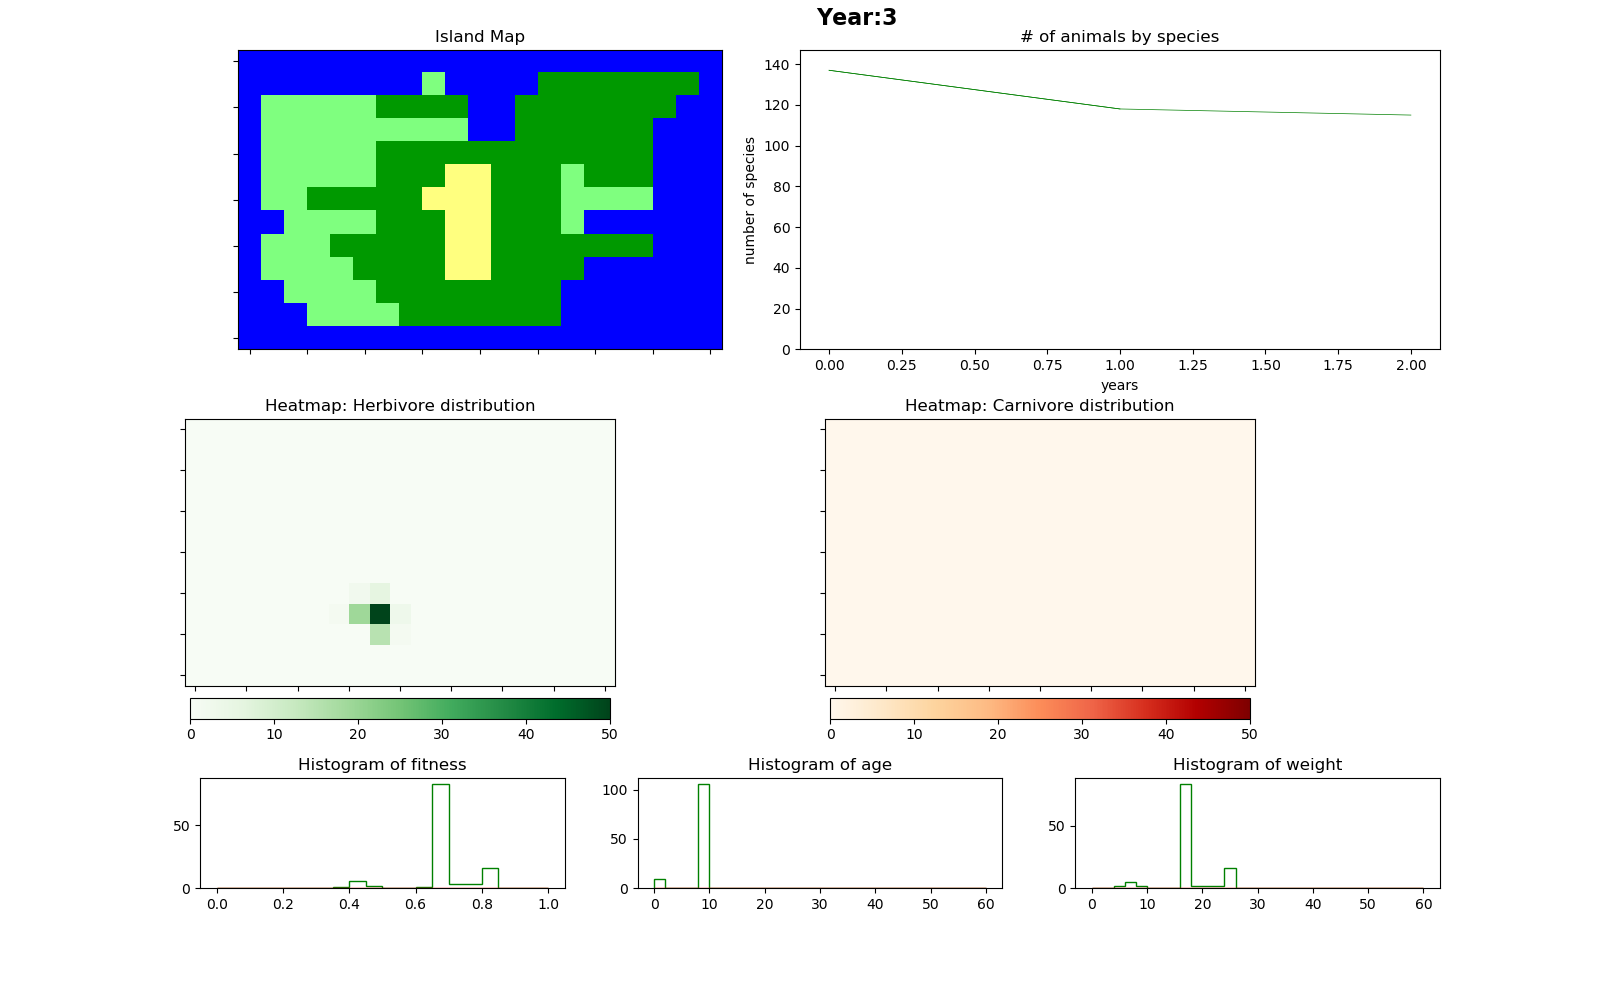
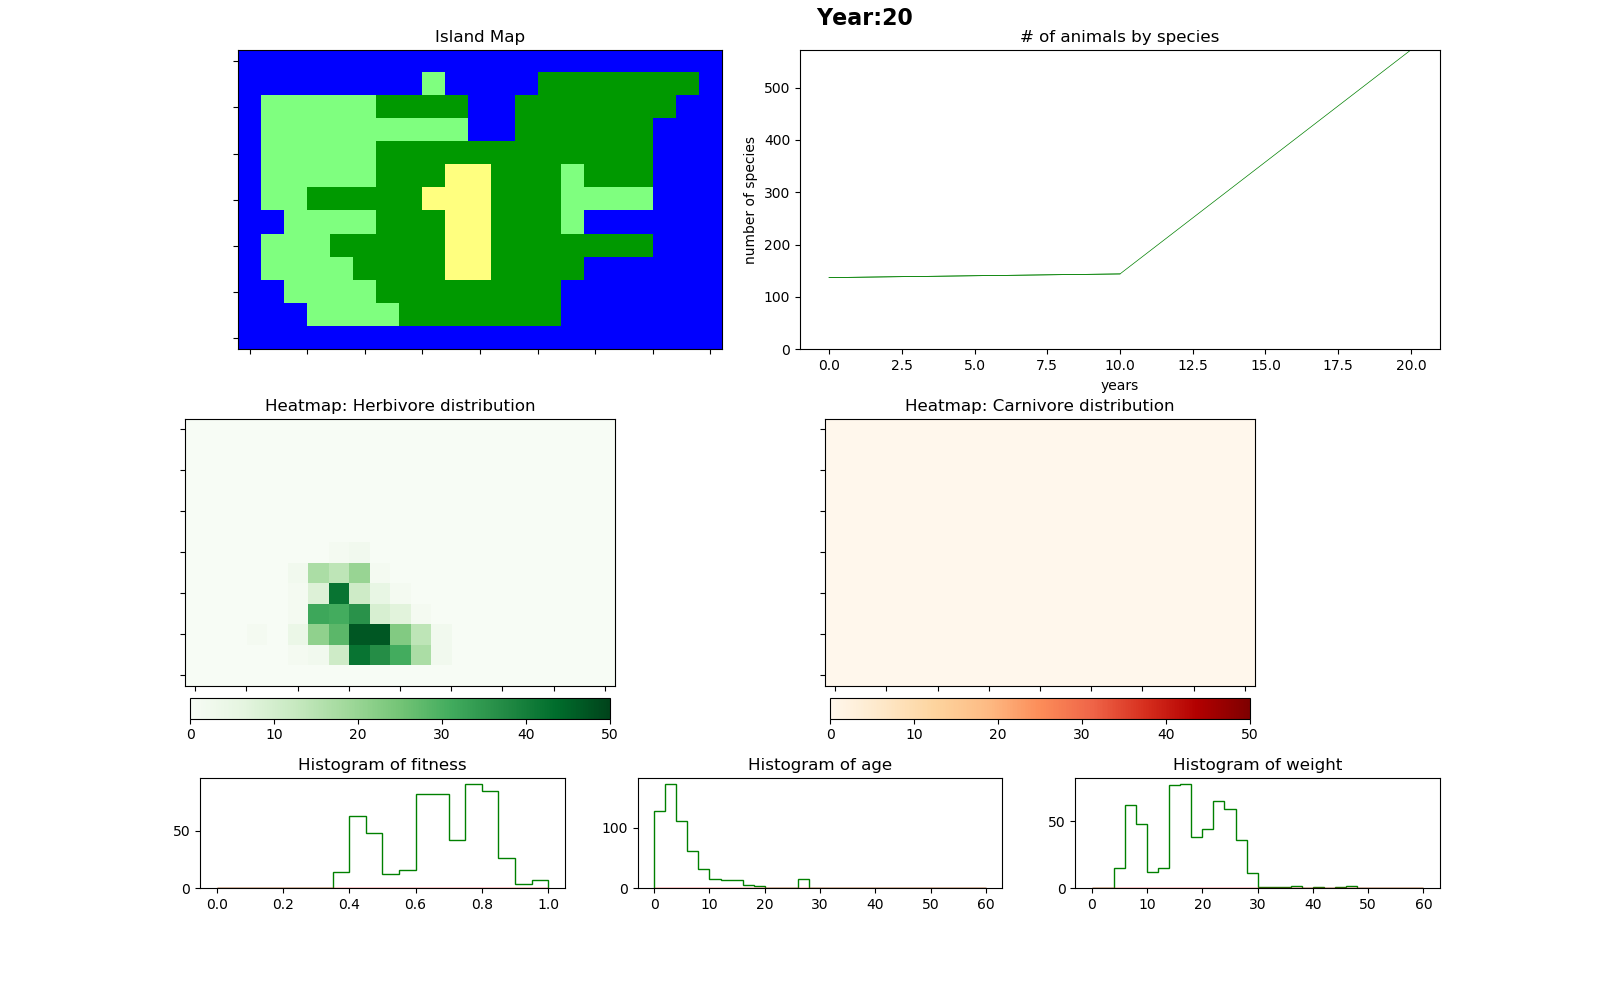
Managed to implement vis_years

diff --git a/biosim/simulation.py b/biosim/simulation.py
@@ -65,21 +65,35 @@ class BioSim:
         :return: None
         """
 
-        for i in range(num_years):
-            self._year += 1
+        if img_years is None:
+            img_years = vis_years
+
+        self._final_year = self._year + num_years
+
+
+        while self._year < self._final_year:
             self.island.run_function_one_year()
-            self.visualization.update_graphics(self.create_population_heatmap(),
-                                               self.island.num_animals_per_species)
-            self.visualization.histogram_fitness_updates(self.island.fitness_list()[0],
-                                                         self.island.fitness_list()[1],
+
+            if self._year % vis_years == 0:
+                self.visualization.changing_text.set_text('Year:' + str(self._year))
+                self.visualization.update_graphics(vis_years, self.create_population_heatmap(),
+                                                   self.island.num_animals_per_species)
+
+                self.visualization.histogram_fitness_updates(self.island.fitness_list()[0],
+                                                             self.island.fitness_list()[1],
+                                                             self.hist_specs)
+                self.visualization.histogram_age_updates(self.island.age_list()[0],
+                                                         self.island.age_list()[1],
                                                          self.hist_specs)
-            self.visualization.histogram_age_updates(self.island.age_list()[0],
-                                                     self.island.age_list()[1],
-                                                     self.hist_specs)
-            self.visualization.histogram_weight_updates(self.island.weight_list()[0],
-                                                        self.island.weight_list()[1],
-                                                        self.hist_specs)
-            self.save_graphics(img_years)
+                self.visualization.histogram_weight_updates(self.island.weight_list()[0],
+                                                            self.island.weight_list()[1],
+                                                            self.hist_specs)
+
+            if self._year % img_years == 0:
+                self.save_graphics(img_years)
+
+            self._year += 1
+
 
     @staticmethod
     def set_animal_parameters(species, params):
@@ -236,8 +250,6 @@ class BioSim:
         Function used to make photos of the plot.
         :return: None
         """
-        if img_years is None:
-            return
 
         if self.img_base is None:
             return

diff --git a/biosim/visualization.py b/biosim/visualization.py
@@ -77,15 +77,17 @@ class Visualization:
 
         plt.pause(0.01)
 
-    def update_graphics(self, distribution_array=None, num_species_dict=None):
+    def update_graphics(self, years, distribution_array=None, num_species_dict=None):
         """
         Updates the heatmaps and graphs
         :param distribution_array:
         :param num_species_dict: a dict containing the total number of animals per species
         :return: None
         """
-        self.steps += 1
-        self.changing_text.set_text('Year:' + str(self.steps))
+        self.steps +=1
+
+
+
 
         # Heatmap update
         if self.herbies_axis is None:
@@ -114,16 +116,21 @@ class Visualization:
         # line graph plot update:
         self.current_herbivore_data.append(num_species_dict['Herbivore'])
         self.current_carnivore_data.append(num_species_dict['Carnivore'])
+
         length = len(self.current_carnivore_data)
         x_value = list(np.arange(length))
-        self.linegraph_ax.set_ylim(0, max(self.current_herbivore_data) + 10)
+        x_value2 = []
+        for val in x_value:
+            x_value2.append(val*years)
+
+        self.linegraph_ax.set_ylim(0, (max(self.current_herbivore_data)))
 
         self.linegraph_ax.title.set_text('# of animals by species')
         self.linegraph_ax.set_xlabel('years')
         self.linegraph_ax.set_ylabel('number of species')
 
-        self.linegraph_ax.plot(x_value, self.current_herbivore_data, '-', color='g', linewidth=0.5)
-        self.linegraph_ax.plot(x_value, self.current_carnivore_data, '-', color='r', linewidth=0.5)
+        self.linegraph_ax.plot(x_value2, self.current_herbivore_data, '-', color='g', linewidth=0.5)
+        self.linegraph_ax.plot(x_value2, self.current_carnivore_data, '-', color='r', linewidth=0.5)
 
         plt.pause(1e-6)
 

diff --git a/examples/check_sim.py b/examples/check_sim.py
@@ -59,10 +59,10 @@ if __name__ == '__main__':
                                             'DeltaPhiMax': 9.})
     sim.set_landscape_parameters('L', {'f_max': 700})
 
-    sim.simulate(num_years=100, vis_years=1, img_years=1)
+    sim.simulate(num_years=100, vis_years=1, img_years=2000)
 
     sim.add_population(population=ini_carns)
-    sim.simulate(num_years=300, vis_years=1, img_years=1)
+    sim.simulate(num_years=300, vis_years=1, img_years=2000)
 
     plt.savefig('check_sim.pdf')
 
